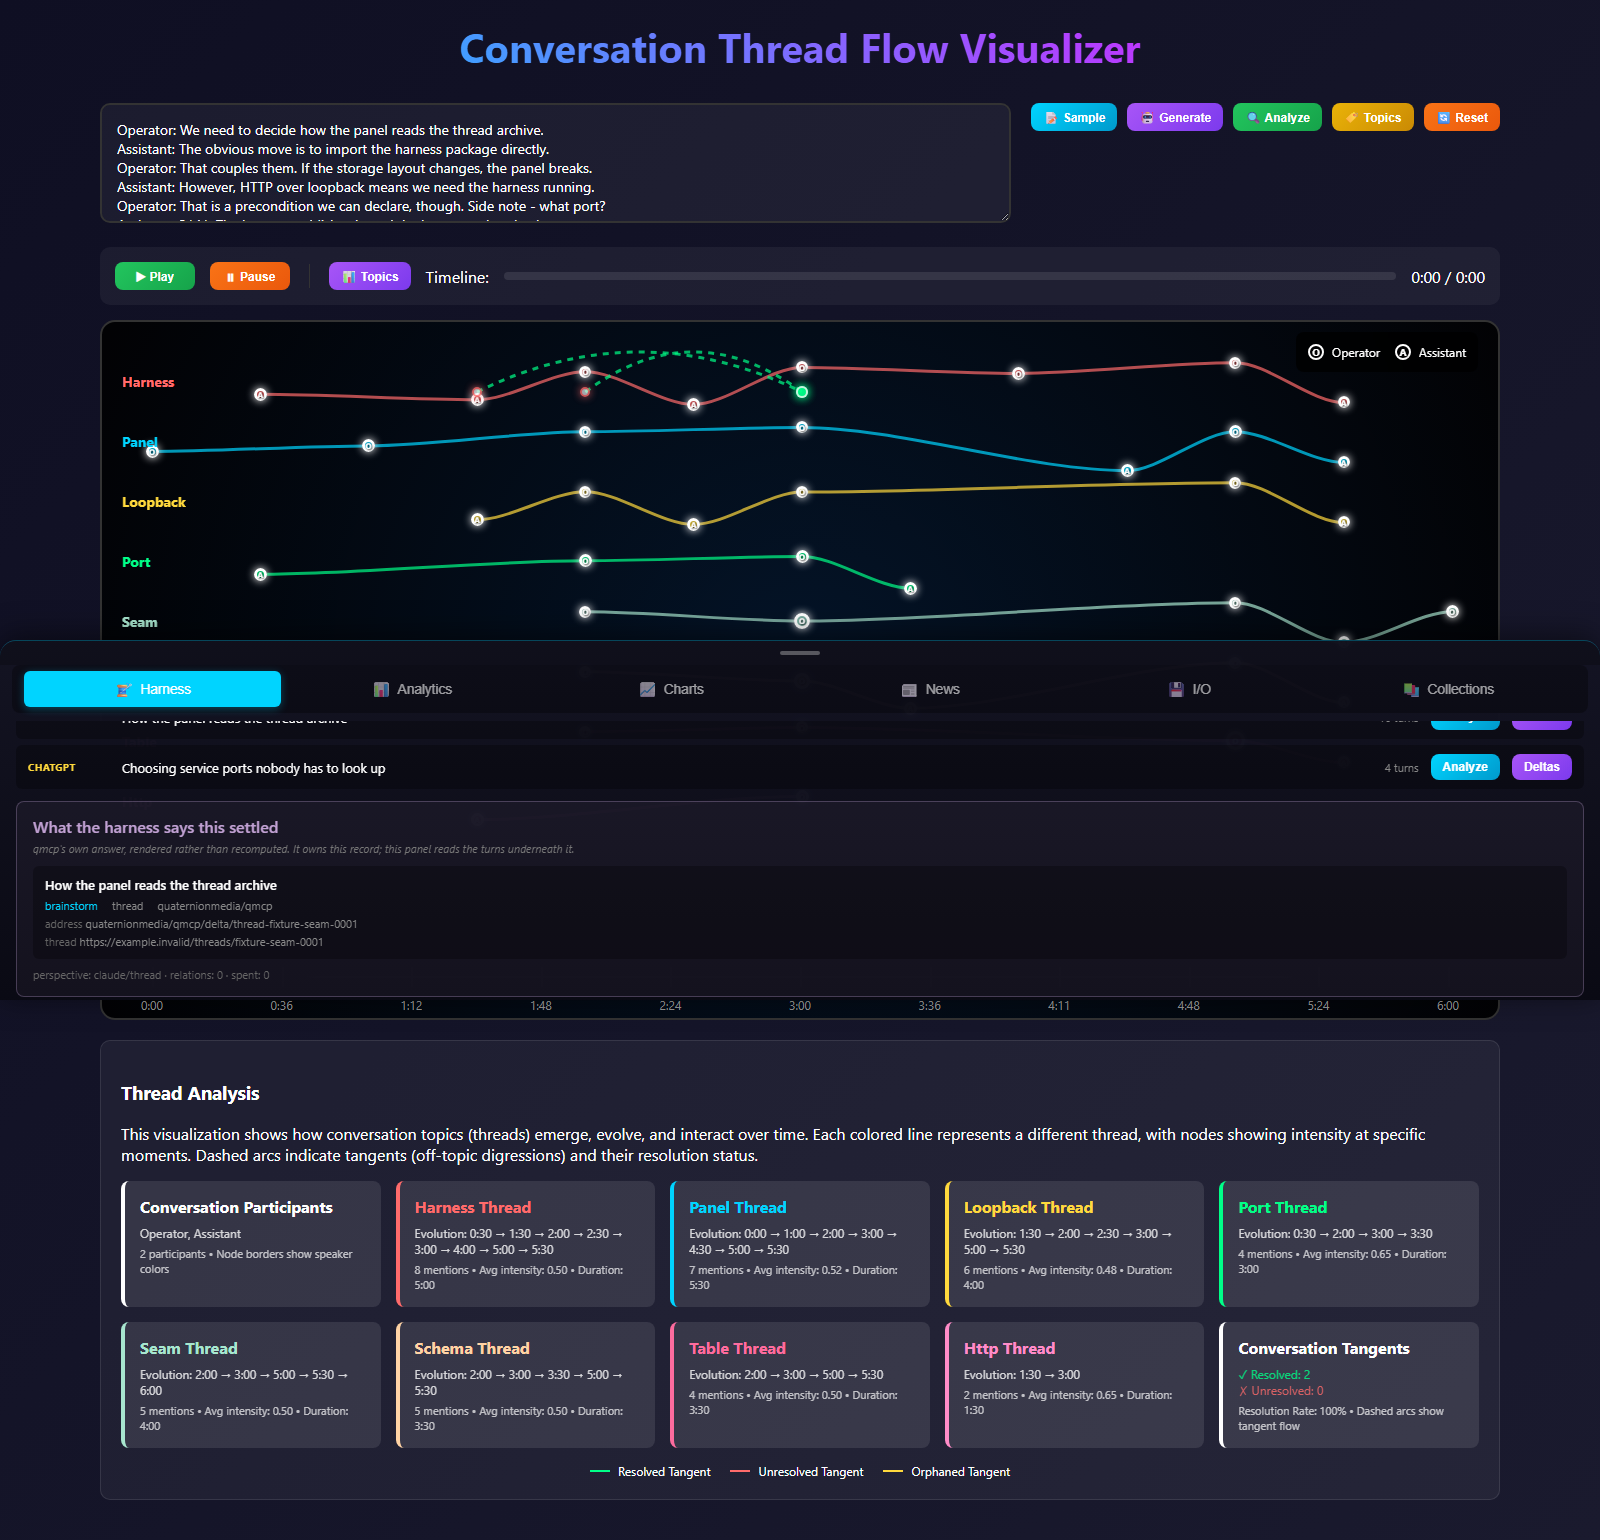
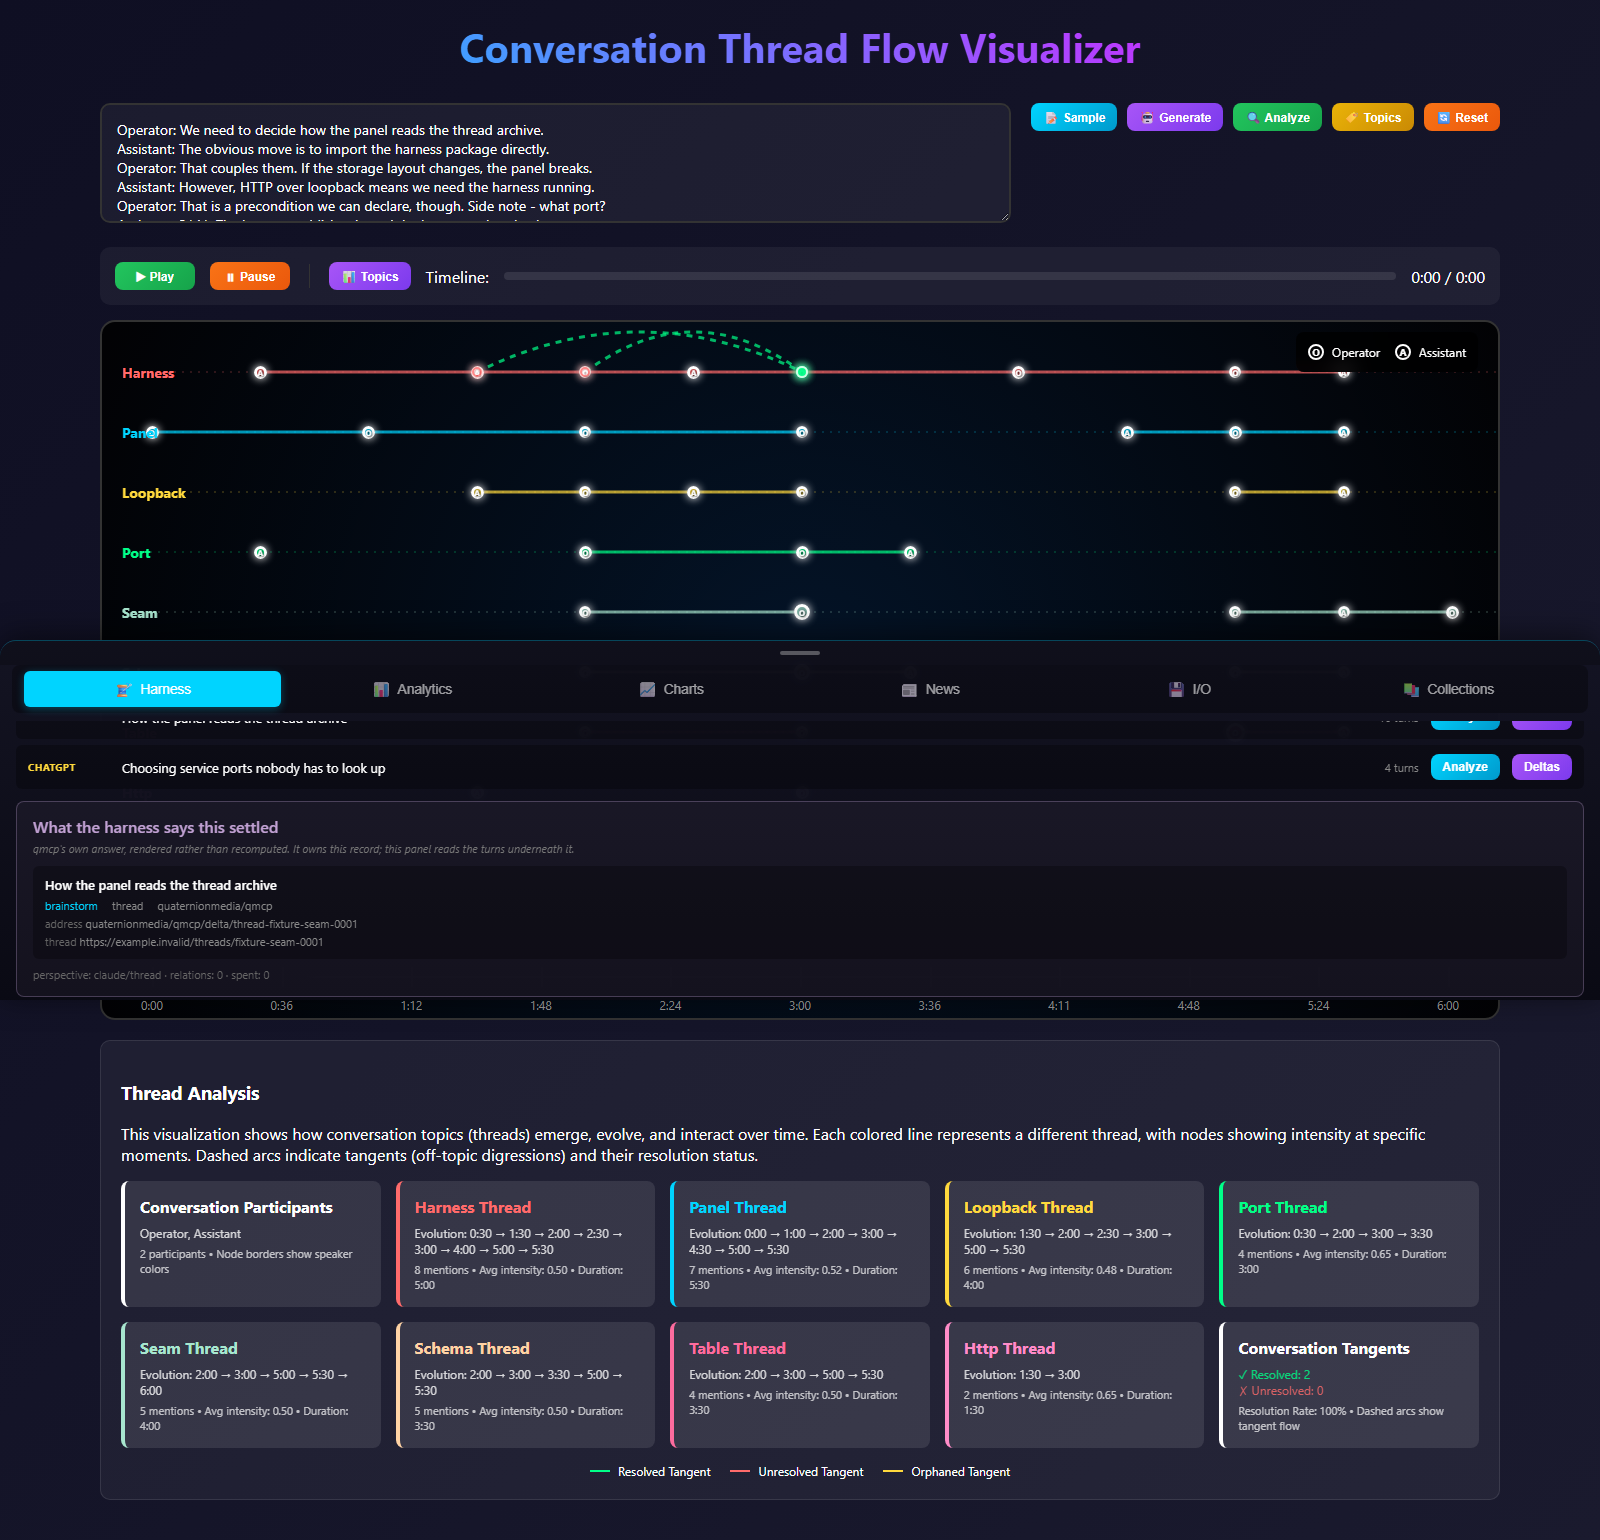
Give each topic its own lane, and draw a dropped topic as a rest

diff --git a/looksatwords/frontend/js/renderer.js b/looksatwords/frontend/js/renderer.js
@@ -119,11 +119,69 @@ export class VisualizationRenderer {
     renderThreads(threads, totalDuration) {
         // Ensure totalDuration is valid to prevent division by zero
         const safeDuration = Math.max(totalDuration, 1);
-        
+
+        this.messageSlot = this.smallestGap(threads);
+        this.renderLaneRules(threads, safeDuration);
+
         threads.forEach((thread, index) => {
             this.renderThreadPath(thread, index, safeDuration);
             this.renderThreadNodes(thread, index, safeDuration);
             this.renderThreadLabel(thread, index);
+        });
+    }
+
+    /**
+     * The conversation's beat: the smallest step between two moments.
+     *
+     * Taken from the data rather than assumed, because a transcript with
+     * timestamps and one without are spaced differently, and a rest threshold
+     * built on a constant would call every gap a rest in one and none in the
+     * other.
+     *
+     * @param {Thread[]} threads
+     * @returns {number} seconds between adjacent messages, or 30 if unknowable
+     */
+    smallestGap(threads) {
+        let smallest = Infinity;
+        threads.forEach(thread => {
+            const times = (thread.points || []).map(p => p.time).sort((a, b) => a - b);
+            for (let i = 1; i < times.length; i++) {
+                const gap = times[i] - times[i - 1];
+                if (gap > 0 && gap < smallest) smallest = gap;
+            }
+        });
+        return Number.isFinite(smallest) ? smallest : 30;
+    }
+
+    /**
+     * Draw one faint rule per lane, full width, behind everything.
+     *
+     * The staff. Without it a topic that is silent for most of the
+     * conversation is a couple of marks floating in the dark, and a reader
+     * cannot tell whether the row is empty or whether they have lost it.
+     *
+     * @param {Thread[]} threads
+     * @param {number} totalDuration
+     */
+    renderLaneRules(threads, totalDuration) {
+        threads.forEach((thread, index) => {
+            const y = this.laneY(index);
+            const rule = document.createElementNS('http://www.w3.org/2000/svg', 'line');
+            rule.setAttribute('x1', 40);
+            rule.setAttribute('x2', '100%');
+            rule.setAttribute('y1', y);
+            rule.setAttribute('y2', y);
+            rule.setAttribute('stroke', thread.color);
+            rule.setAttribute('stroke-width', '1');
+            // DASHED, BECAUSE THE RULE IS WHERE THE REST IS. Solid, it competed
+            // with the thread line; at 0.14 it was invisible on this background
+            // and a lane's silent stretch looked like the end of the lane
+            // rather than a topic nobody was talking about. Dashes read as
+            // "still here, nothing sounding" the way a rest does.
+            rule.setAttribute('stroke-dasharray', '2,6');
+            rule.setAttribute('opacity', '0.35');
+            rule.classList.add('lane-rule');
+            this.svg.appendChild(rule);
         });
     }
 
@@ -164,18 +222,25 @@ export class VisualizationRenderer {
     }
 
     /**
-     * Calculate Y position for a given thread and point
+     * The centre of one topic's lane. One topic, one height, always.
+     *
+     * A LANE IS A STAFF LINE AND VERTICAL POSITION MEANS ONE THING: which topic
+     * this is. It used to mean three things at once -- the lane, plus
+     * `sin(time * 0.1) * 20`, plus the point's intensity again. The wave was
+     * decoration and carried nothing; the intensity was already in the size of
+     * every node. Between them a topic wandered across 50 pixels, lanes crossed
+     * each other, and reading "when was this topic live" meant tracing a line
+     * through the ones it had tangled with.
+     *
+     * Now: time reads left to right, topic reads top to bottom, and how loud a
+     * moment was reads as the size of the note sitting on the line.
+     *
      * @param {number} threadIndex - Thread index
-     * @param {number} time - Time value for wave effect
-     * @param {number} intensity - Point intensity
-     * @returns {number} Y coordinate
+     * @returns {number} Y coordinate of the lane's centre
      */
-    calculateY(threadIndex, time, intensity) {
+    laneY(threadIndex) {
         const { canvasPadding, threadSpacing } = CONFIG.dimensions;
-        const baseY = canvasPadding + threadIndex * threadSpacing;
-        const waveOffset = Math.sin(time * 0.1) * 20;
-        const intensityOffset = (intensity || 0.5) * 30;
-        return baseY + waveOffset + intensityOffset;
+        return canvasPadding + threadIndex * threadSpacing;
     }
 
     /**
@@ -187,33 +252,44 @@ export class VisualizationRenderer {
      */
     generateThreadPath(thread, threadIndex, totalDuration) {
         if (!thread.points || thread.points.length === 0) return '';
-        
-        const points = thread.points.map(point => ({
+
+        const y = this.laneY(threadIndex);
+        const pts = thread.points.map(point => ({
             x: this.calculateX(point.time, totalDuration),
-            y: this.calculateY(threadIndex, point.time, point.intensity)
+            time: point.time,
         }));
 
-        if (points.length < 2) {
-            // Single point - return a small circle instead
-            return `M ${points[0].x - 5} ${points[0].y} a 5 5 0 1 0 10 0 a 5 5 0 1 0 -10 0`;
+        if (pts.length < 2) {
+            return `M ${pts[0].x - 5} ${y} a 5 5 0 1 0 10 0 a 5 5 0 1 0 -10 0`;
         }
 
-        let pathData = `M ${points[0].x} ${points[0].y}`;
+        // A GAP IN A TOPIC IS A REST, AND A REST IS DRAWN AS SILENCE. Every
+        // point of a thread used to be joined to the next one, so a topic
+        // dropped for four minutes and picked up again drew an unbroken line
+        // straight through the part where nobody mentioned it -- which is the
+        // opposite of what the picture is for. `restGap` comes from the
+        // conversation's own message spacing rather than a constant, so a
+        // dense thread and a sparse one are each judged against their own beat.
+        const restGap = (this.messageSlot || 30) * 2.5;
 
-        for (let i = 1; i < points.length; i++) {
-            const prev = points[i - 1];
-            const curr = points[i];
-            
-            // Bezier curve control points
-            const cp1x = prev.x + (curr.x - prev.x) * 0.3;
-            const cp1y = prev.y;
-            const cp2x = prev.x + (curr.x - prev.x) * 0.7;
-            const cp2y = curr.y;
-
-            pathData += ` C ${cp1x} ${cp1y}, ${cp2x} ${cp2y}, ${curr.x} ${curr.y}`;
+        const runs = [[pts[0]]];
+        for (let i = 1; i < pts.length; i++) {
+            if (pts[i].time - pts[i - 1].time > restGap) {
+                runs.push([pts[i]]);
+            } else {
+                runs[runs.length - 1].push(pts[i]);
+            }
         }
 
-        return pathData;
+        return runs.map(run => {
+            if (run.length === 1) {
+                // A single sounding moment with silence on both sides. Give it
+                // a short stroke so the lane shows something happened, rather
+                // than leaving the node floating over an empty line.
+                return `M ${run[0].x - 6} ${y} L ${run[0].x + 6} ${y}`;
+            }
+            return `M ${run[0].x} ${y} L ${run[run.length - 1].x} ${y}`;
+        }).join(' ');
     }
 
     /**
@@ -229,7 +305,8 @@ export class VisualizationRenderer {
 
         thread.points.forEach((point, pointIndex) => {
             const x = this.calculateX(point.time, totalDuration);
-            const y = this.calculateY(threadIndex, point.time, point.intensity);
+            // On the line, always. Intensity is the size of the note below.
+            const y = this.laneY(threadIndex);
 
             const node = document.createElement('div');
             node.className = 'thread-node';
@@ -268,7 +345,10 @@ export class VisualizationRenderer {
         const label = document.createElement('div');
         label.className = 'thread-label';
         label.style.color = thread.color;
-        label.style.top = `${CONFIG.dimensions.canvasPadding + threadIndex * CONFIG.dimensions.threadSpacing}px`;
+        // Centred on the lane it names. It used to sit at the lane's nominal
+        // top while the line wandered below it, so on a busy chart the label
+        // and its topic were not obviously the same row.
+        label.style.top = `${this.laneY(threadIndex) - 9}px`;
         label.textContent = thread.name.charAt(0).toUpperCase() + thread.name.slice(1);
         this.canvas.appendChild(label);
     }
@@ -359,8 +439,8 @@ export class VisualizationRenderer {
             const point = allPoints[i];
             const x = this.calculateX(point.time, totalDuration);
             const baseY = canvasPadding + point.speakerIndex * threadSpacing;
-            const waveOffset = Math.sin(point.time * 0.1) * 15;
-            const y = baseY + 30 + waveOffset;
+            // Flat, for the same reason the topic lanes are. See laneY().
+            const y = baseY + 30;
             
             if (i === 0) {
                 pathData = `M ${x} ${y}`;
@@ -368,8 +448,8 @@ export class VisualizationRenderer {
                 const prev = allPoints[i - 1];
                 const prevX = this.calculateX(prev.time, totalDuration);
                 const prevBaseY = canvasPadding + prev.speakerIndex * threadSpacing;
-                const prevWaveOffset = Math.sin(prev.time * 0.1) * 15;
-                const prevY = prevBaseY + 30 + prevWaveOffset;
+                // Flat, matching the lane it leaves. See laneY().
+                const prevY = prevBaseY + 30;
                 
                 // Use bezier curve for smooth transitions
                 const midX = (prevX + x) / 2;
@@ -401,8 +481,8 @@ export class VisualizationRenderer {
             const speakerIndex = speakerIndexMap.get(point.speaker) ?? 0;
             const x = this.calculateX(point.time, totalDuration);
             const baseY = canvasPadding + speakerIndex * threadSpacing;
-            const waveOffset = Math.sin(point.time * 0.1) * 15;
-            const y = baseY + 30 + waveOffset;
+            // Flat, for the same reason the topic lanes are. See laneY().
+            const y = baseY + 30;
             
             if (i === 0) {
                 pathData = `M ${x} ${y}`;
@@ -411,8 +491,8 @@ export class VisualizationRenderer {
                 const prevSpeakerIndex = speakerIndexMap.get(prev.speaker) ?? 0;
                 const prevX = this.calculateX(prev.time, totalDuration);
                 const prevBaseY = canvasPadding + prevSpeakerIndex * threadSpacing;
-                const prevWaveOffset = Math.sin(prev.time * 0.1) * 15;
-                const prevY = prevBaseY + 30 + prevWaveOffset;
+                // Flat, matching the lane it leaves. See laneY().
+                const prevY = prevBaseY + 30;
                 
                 const midX = (prevX + x) / 2;
                 pathData += ` C ${midX} ${prevY}, ${midX} ${y}, ${x} ${y}`;
@@ -439,8 +519,8 @@ export class VisualizationRenderer {
         
         const x = this.calculateX(point.time, totalDuration);
         const baseY = canvasPadding + speakerIndex * threadSpacing;
-        const waveOffset = Math.sin(point.time * 0.1) * 15;
-        const y = baseY + 30 + waveOffset;
+        // Flat, for the same reason the topic lanes are. See laneY().
+        const y = baseY + 30;
         
         const node = document.createElement('div');
         node.className = 'thread-node';
@@ -521,8 +601,8 @@ export class VisualizationRenderer {
         // Render nodes for each message
         points.forEach((point, pointIndex) => {
             const x = this.calculateX(point.time, totalDuration);
-            const waveOffset = Math.sin(point.time * 0.1) * 15;
-            const y = baseY + 30 + waveOffset;
+            // Flat, for the same reason the topic lanes are. See laneY().
+            const y = baseY + 30;
             
             const node = document.createElement('div');
             node.className = 'thread-node';
@@ -584,12 +664,11 @@ export class VisualizationRenderer {
         const sourceThread = tangent.sourceThread;
         if (!sourceThread || !threads.includes(sourceThread)) return;
 
-        const { canvasPadding, threadSpacing } = CONFIG.dimensions;
         const startX = this.calculateX(tangent.startTime, totalDuration);
         const endX = this.calculateX(tangent.endTime, totalDuration);
 
         const sourceThreadIndex = threads.indexOf(sourceThread);
-        const sourceY = canvasPadding + sourceThreadIndex * threadSpacing + 20;
+        const sourceY = this.laneY(sourceThreadIndex);
 
         // Calculate arc control points
         const controlY = sourceY - 80;
@@ -624,12 +703,11 @@ export class VisualizationRenderer {
         const sourceThread = tangent.sourceThread;
         if (!sourceThread || !threads.includes(sourceThread)) return;
 
-        const { canvasPadding, threadSpacing } = CONFIG.dimensions;
         const startX = this.calculateX(tangent.startTime, totalDuration);
         const endX = this.calculateX(tangent.endTime, totalDuration);
 
         const sourceThreadIndex = threads.indexOf(sourceThread);
-        const sourceY = canvasPadding + sourceThreadIndex * threadSpacing + 20;
+        const sourceY = this.laneY(sourceThreadIndex);
         const endY = tangent.type === 'resolved' ? sourceY : sourceY + 40;
 
         // Start marker

diff --git a/looksatwords/tests/test_frontend.py b/looksatwords/tests/test_frontend.py
@@ -526,9 +526,19 @@ class TestRendererModule:
         """Test that VisualizationRenderer has calculateX method."""
         assert "calculateX(" in renderer_js
 
-    def test_has_calculate_y_method(self, renderer_js):
-        """Test that VisualizationRenderer has calculateY method."""
-        assert "calculateY(" in renderer_js
+    def test_lanes_are_flat(self, renderer_js):
+        """A topic's height is its lane and nothing else.
+
+        `calculateY(threadIndex, time, intensity)` returned the lane plus
+        `sin(time * 0.1) * 20` plus the intensity again, so vertical position
+        meant three things at once and lanes crossed each other. `laneY` takes
+        only the index. The second assertion is the one with teeth: a wave can
+        be reintroduced without renaming anything.
+        """
+        assert "laneY(" in renderer_js
+        assert "Math.sin" not in renderer_js, (
+            "a wave is back in the renderer; vertical position is the lane"
+        )
 
     def test_uses_svg(self, renderer_js):
         """Test that renderer uses SVG elements."""

diff --git a/looksatwords/tests/test_screenshots.py b/looksatwords/tests/test_screenshots.py
@@ -240,7 +240,14 @@ def test_records_an_analysed_thread(page):
         "[data-harness-analyze]",
         "els => els.find(e => e.dataset.source === 'claude').click()",
     )
-    page.wait_for_selector("#visualization svg path.thread-path", timeout=30000)
+    # ATTACHED, NOT VISIBLE. A lane is a horizontal line, so its bounding box
+    # is zero pixels high and Playwright's `visible` state never matches it --
+    # the path is on screen, stroked, and readable by a person. Bounding-box
+    # visibility was never the property in question here: the defect this guards
+    # against is a path at computed opacity 0, which is asserted below.
+    page.wait_for_selector(
+        "#visualization svg path.thread-path", state="attached", timeout=30000
+    )
     page.wait_for_timeout(5000)
 
     # ASSERT THE PICTURE HAS SOMETHING IN IT. Paths in the DOM at opacity 0 is

diff --git a/looksatwords/tests/test_e2e.py b/looksatwords/tests/test_e2e.py
@@ -333,7 +333,11 @@ def test_thread_lines_are_actually_visible(server_url, browser_context):
         ))
         page.click("button:has-text('Analyze')")
 
-        page.wait_for_selector("#visualization svg path", timeout=10000)
+        # Attached, not visible: a lane is a horizontal line and its bounding
+        # box is zero pixels high. Computed opacity is what this test is about.
+        page.wait_for_selector(
+            "#visualization svg path", state="attached", timeout=10000
+        )
         # The reveal is animated; wait for it rather than racing it.
         page.wait_for_timeout(5000)
 
